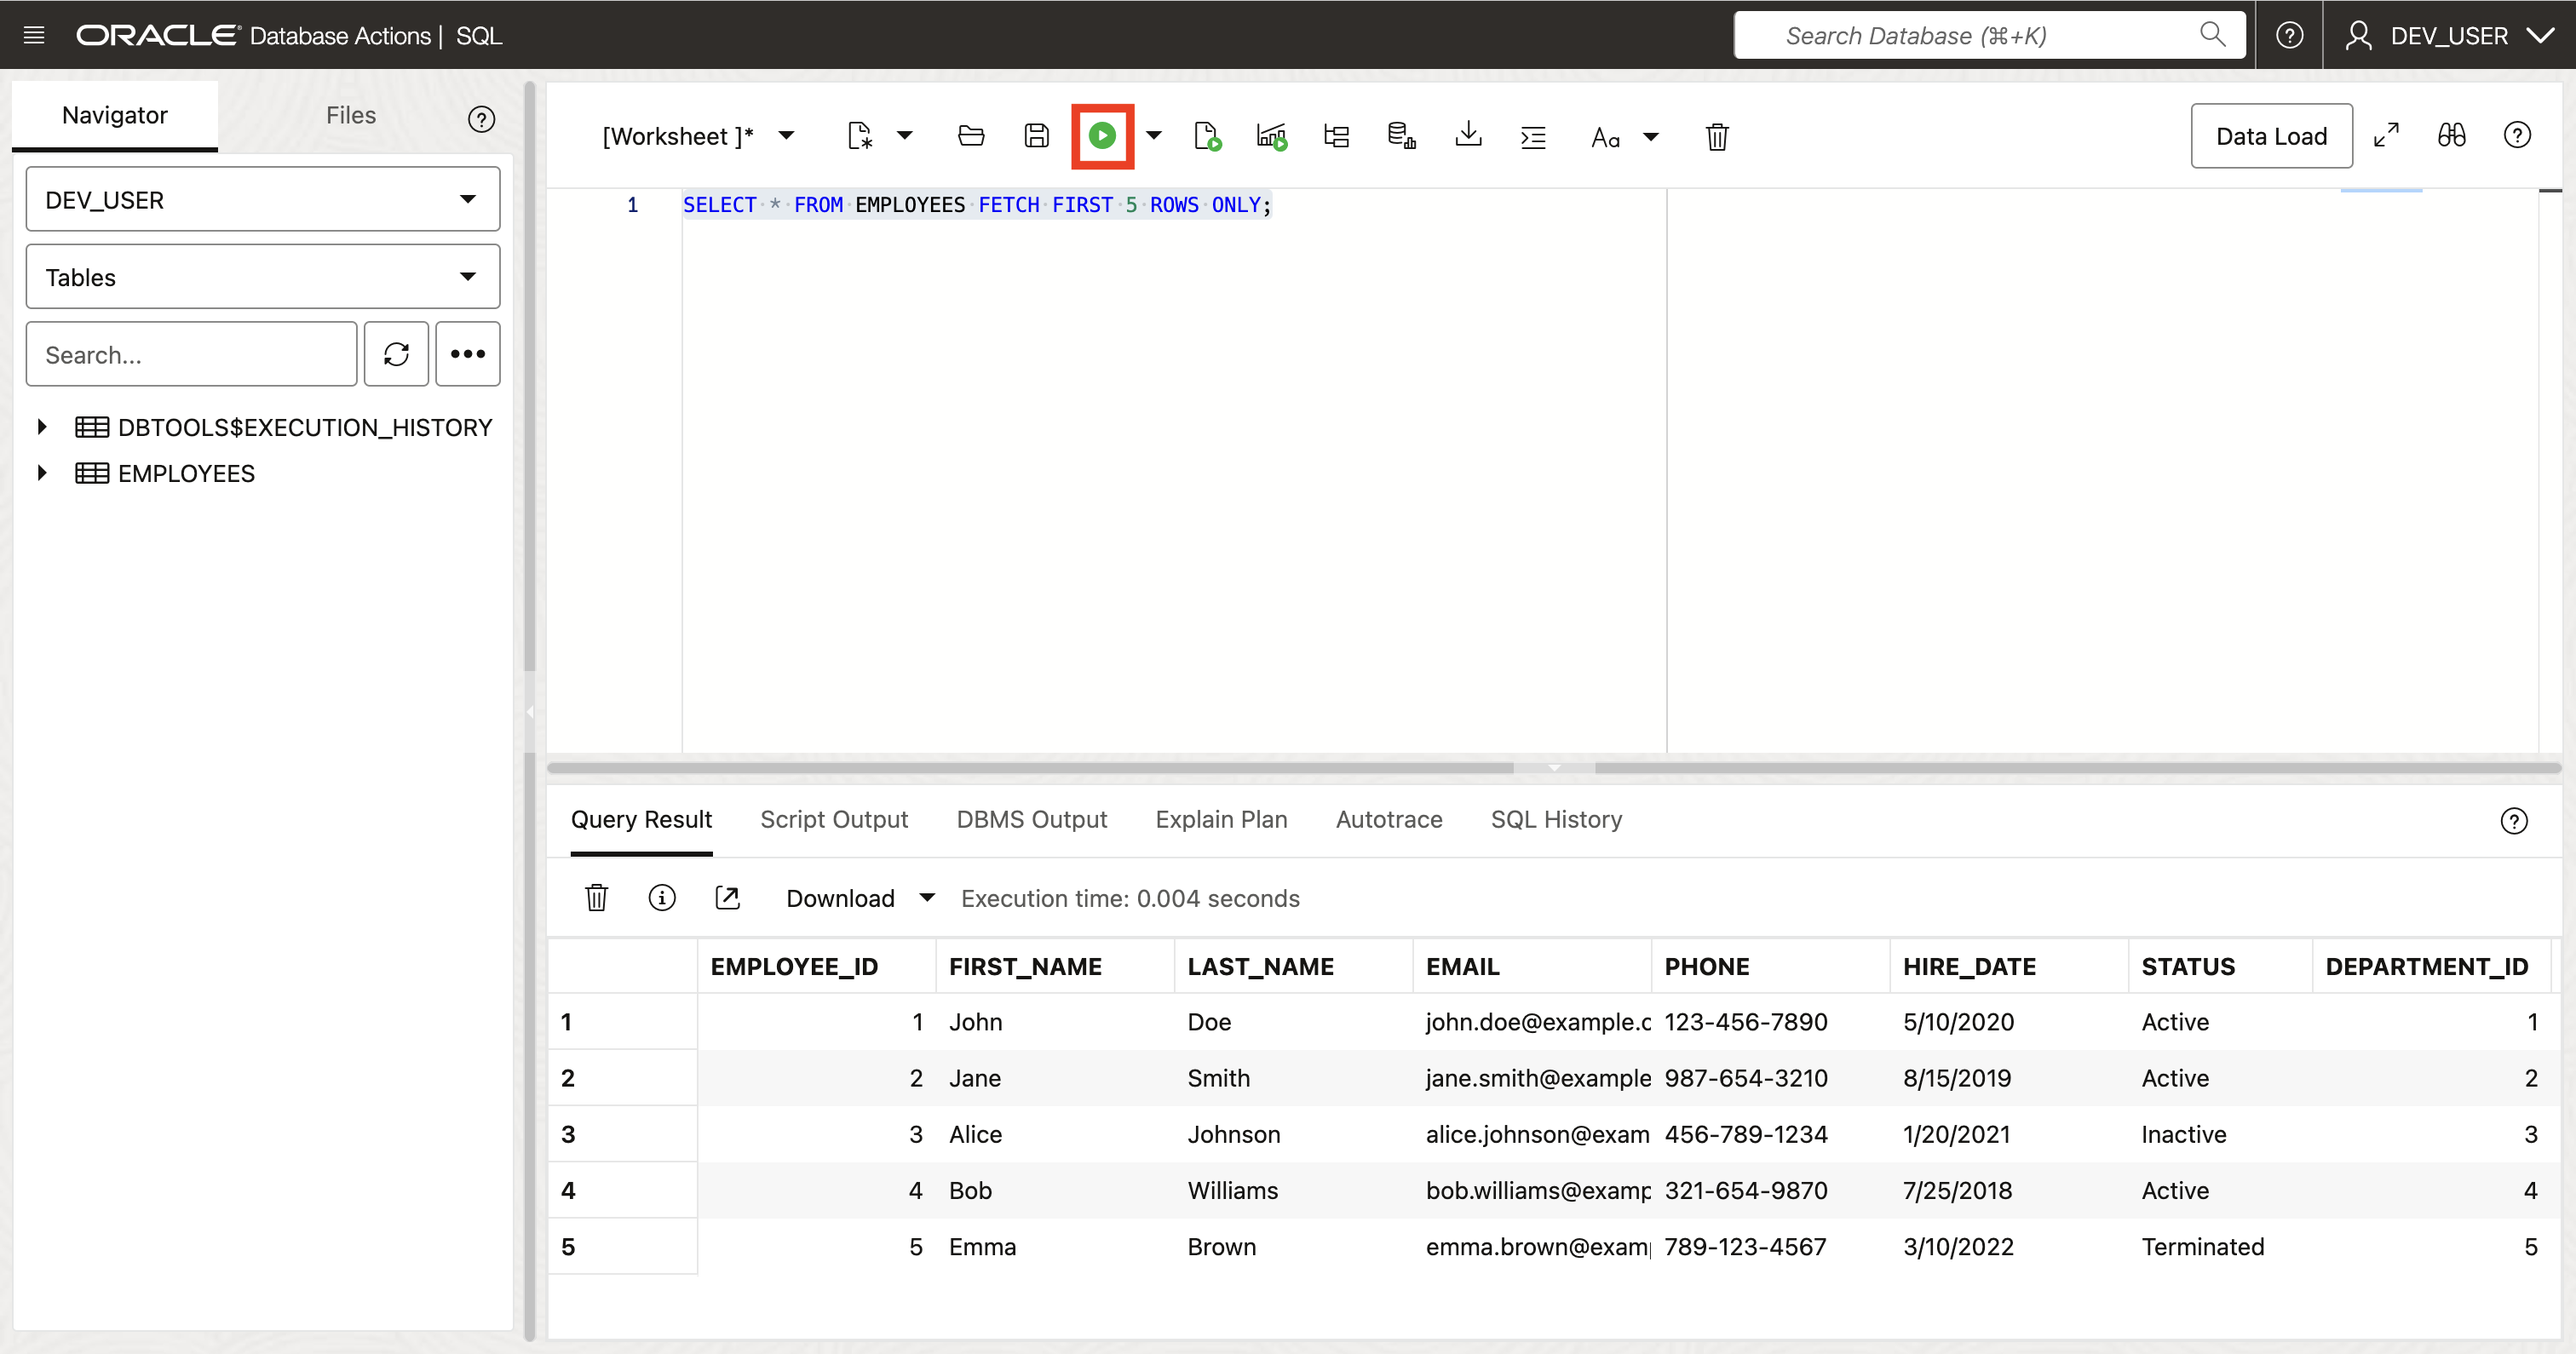
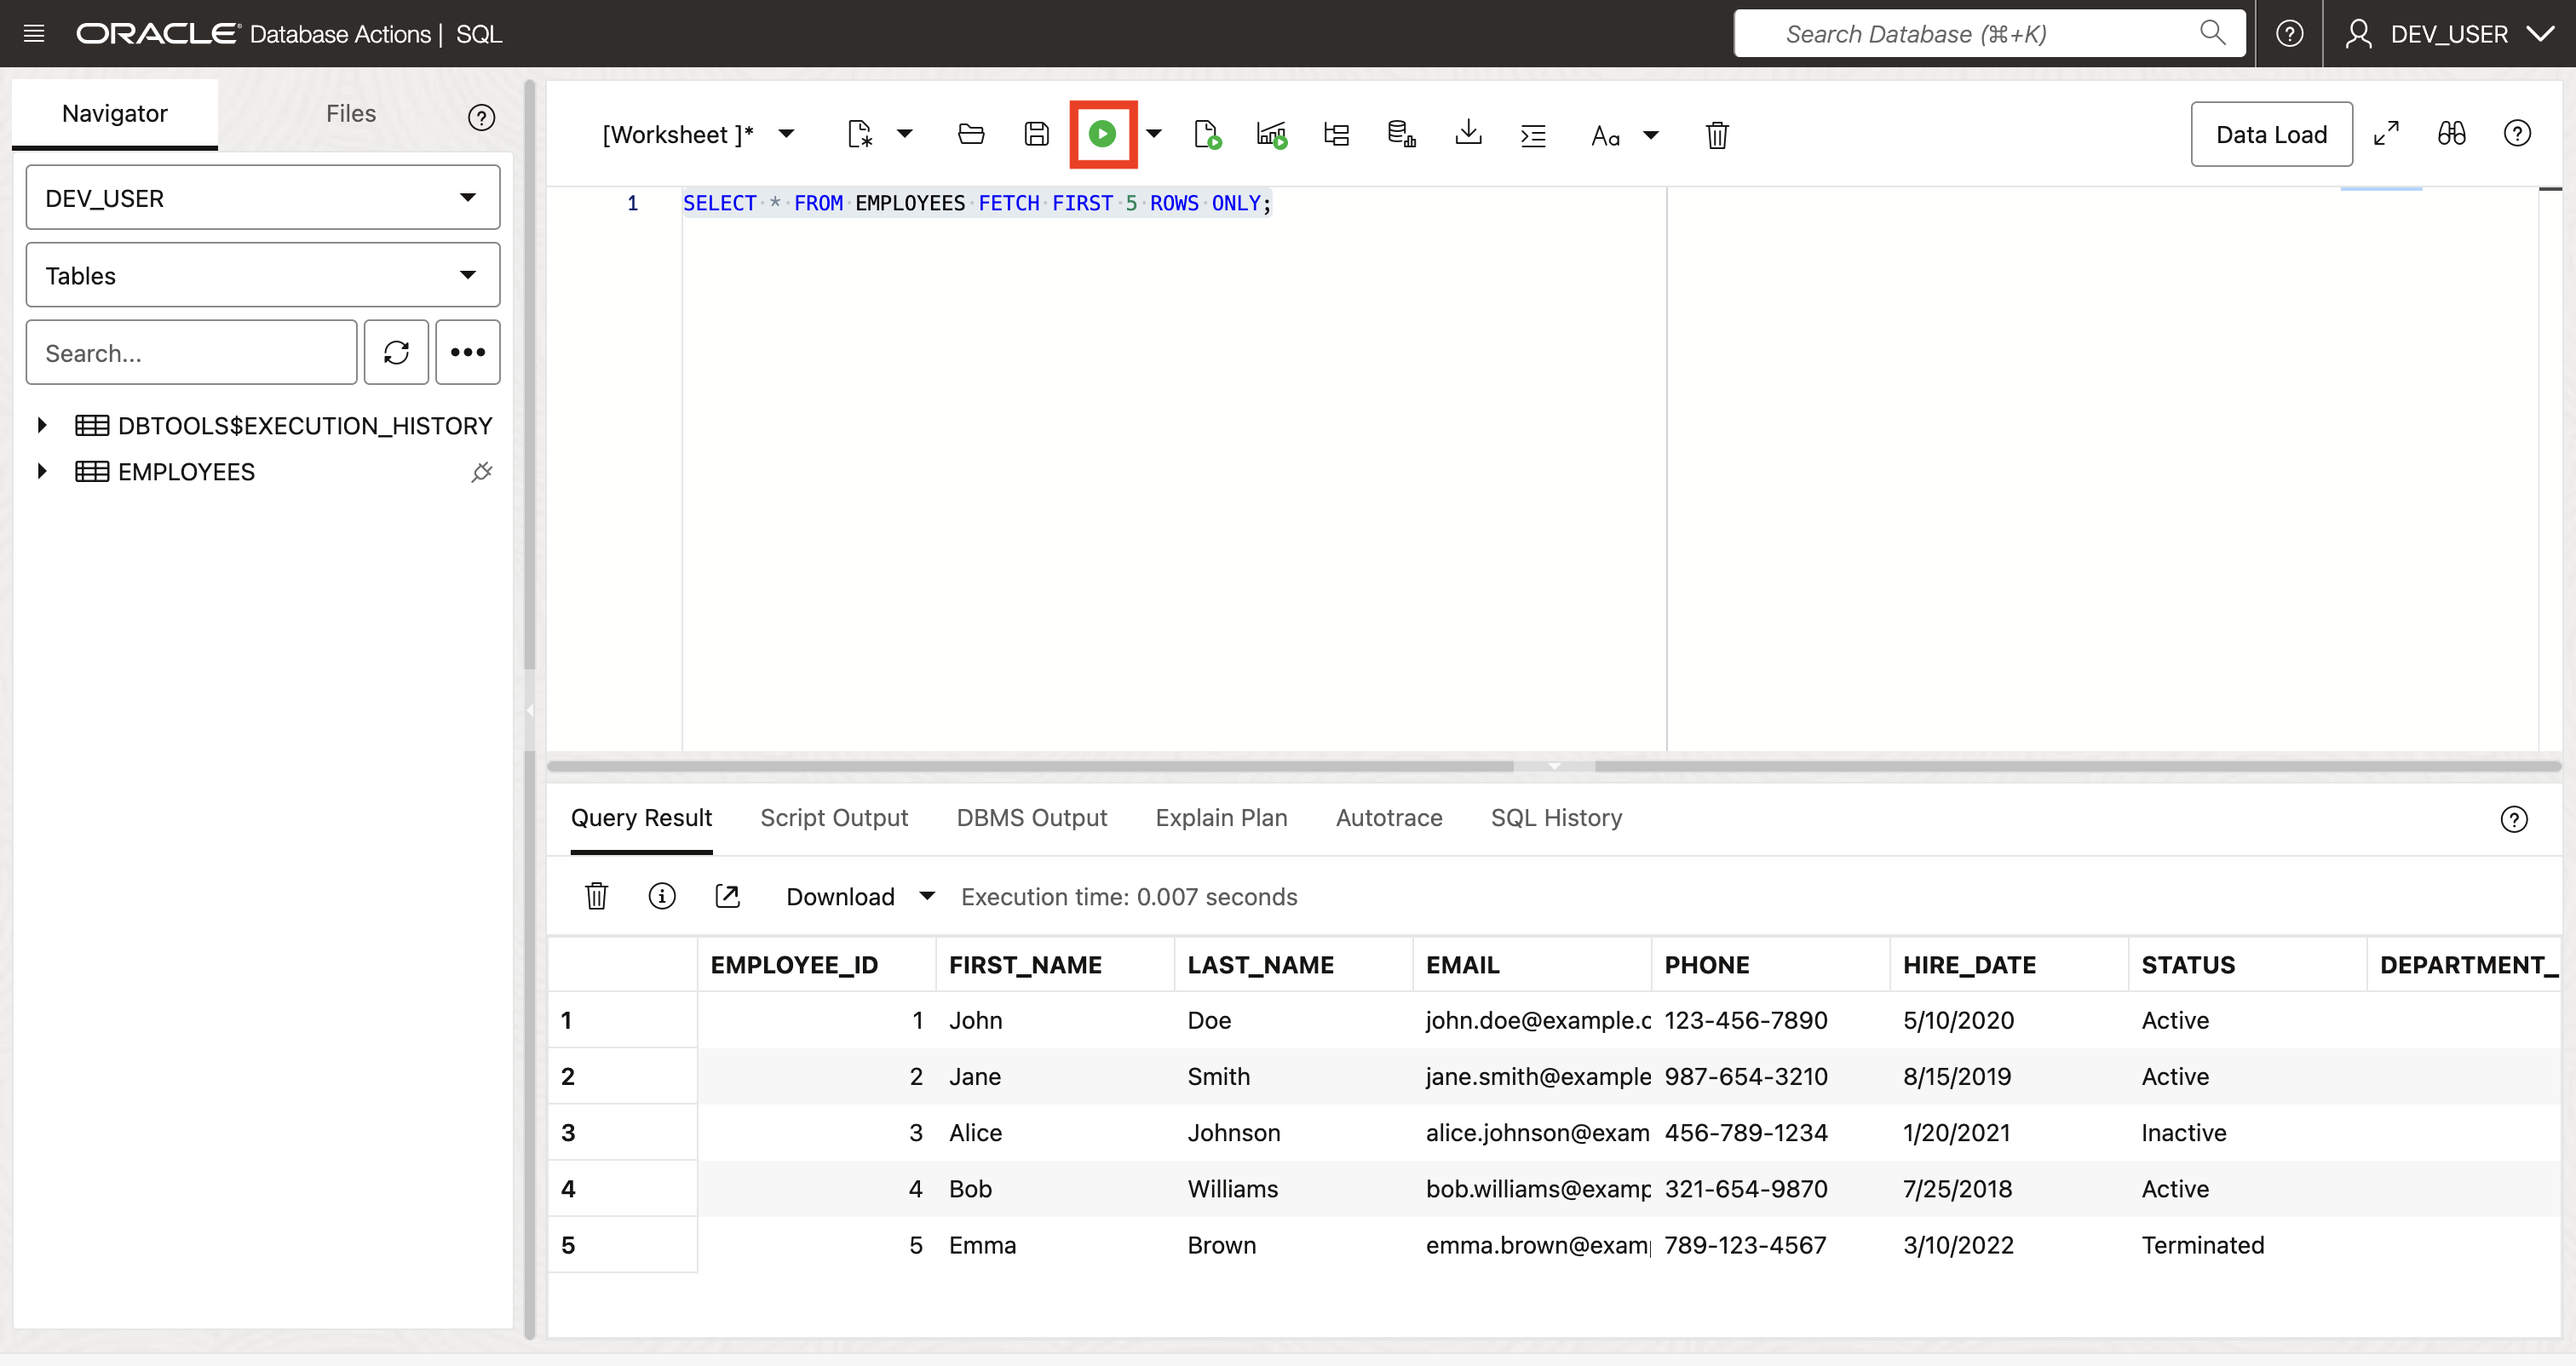
WMS:11814 sqlcl-projects-cicd-for-hr-app Update get started task 4

diff --git a/sqlcl-projects-cicd-for-hr-app/get-started/get-started.md b/sqlcl-projects-cicd-for-hr-app/get-started/get-started.md
@@ -67,14 +67,17 @@ Before diving into the workshop, take a moment to familiarize yourself with the 
    &nbsp;&nbsp;&nbsp;&nbsp;&nbsp;&nbsp;&nbsp;&nbsp;Username: `DEV_USER`
    &nbsp;&nbsp;&nbsp;&nbsp;&nbsp;&nbsp;&nbsp;&nbsp;Password: `[Can be found in your Reservation details - see image in Step 1 for reference]`
 
-    >**Note:** If you're having trouble connecting to DEV\_USER, log in with Admin first. Then, open the hamburger menu, go to Database Users, and locate the DEV\_USER card in the bottom right. Click the icon to open the link, which will take you to a sign-in page where you can log in as DEV\_USER.
-    Alternatively, simply modify the URL to include DEV\_USER in the path as the following:
+    >**Note:** If you're having trouble connecting to DEV\_USER which is normal in the first time, log in with Admin first. Then, open the hamburger menu, go to Database Users, and locate the DEV\_USER card. Click the icon to open the link, which will take you to a sign-in page where you can log in as DEV\_USER.
+
+    ***Alternatively***, simply modify the URL to include DEV\_USER in the path as the following:
 
     ```text
     <copy>
     http://[Your Lab's IP]:8181/ords/DEV_USER/_sdw/
     </copy>
     ```
+
+    Then, enter the DEV_USER credentials (username & password).
 
 3. The Database Actions Launchpad will appear. Navigate to the `Development` category, then click `SQL`. A blank SQL Worksheet will appear.
 
@@ -96,7 +99,7 @@ Before diving into the workshop, take a moment to familiarize yourself with the 
 
    ![Reviewing the results](images/run-select-from-employees.png " ")
 
-5. You may notice the varied data types in this table. To take a closer look at how this `DEV_USER` table is structured, right-click on the `DEV_USER` table, then select `Edit...`. When the `Table Properties` slider appears, click `DDL`, then select the `Create` tab.  
+5. You may notice the varied data types in this table. To take a closer look at how this `DEV_USER` table is structured, right-click on the `DEV_USER` table, then select `Edit...`. When the `Table Properties` slider appears, click `DDL`, then select the `Create` tab.
 
    Note the data types:
 
@@ -118,7 +121,7 @@ Before diving into the workshop, take a moment to familiarize yourself with the 
 
    ![Jupyter password](images/jupyter-pwd.png " ")
   
-2. Once logged in, you may see several directories. Navigate (i.e., a double or single click on the directory) to the `workshops` directory, then the `sqlcl-projects-react-app` directory.
+2. Once logged in, you may see several directories. Navigate (i.e., double or single-click on the directory) to the `workshops` directory, then to the `sqlcl-projects-react-app` directory. This last directory is the folder containing the application you will use and work with throughout this workshop. Take a moment to locate it, explore its contents, and get familiar with its structure.
 
    ![Navigating to SQLcl Projects react app directory.](images/go-to-app-folder.png " ")
 
@@ -145,17 +148,21 @@ Before diving into the workshop, take a moment to familiarize yourself with the 
 
 2. Click the `Run Script` icon. Upon completion, a `PL/SQL procedure successfully completed` message will appear in the `Script Output` tab.-->
 
-1. We created for you the ORDS APIs for the `DEV_USER` user. To review the Resource Module, its Resource Templates and Resource Handlers, navigate to the REST Workshop.
+1. We have created the ORDS APIs for the DEV_USER user and REST-enabled the EMPLOYEES table. 
+
+      >**Note:** The icon next to the table name indicates that the table is REST-enabled.
 
    ![Employees table enabled icon](images/employees-rest-enabled-icon.png " ")
 
-2. Click the hamburger menu from the top of Oracle Database Actions, then click REST.  
+2. Click the hamburger menu at the top of Oracle Database Actions, then select REST.
 
    ![Navigating to the REST using hamburger](images/hamburger-rest.png " ")
 
-3. You'll notice a single AUTOREST in the Workshop's Object panel. Click it.
+3. In the Workshop's Object panel, you will see a single AUTOREST. Click it.
 
    ![Click AUTOREST](images/autorest.png " ")
+
+There, you will find all the REST-enabled objects for the user along with their corresponding endpoints. Since this user only has the EMPLOYEES table REST-enabled, it will be the only one displayed.
 
 <!--5. Next, copy this URI's to your clipboard. In a few moments, you will return to the Jupyter lab to input this into the application code.
 
